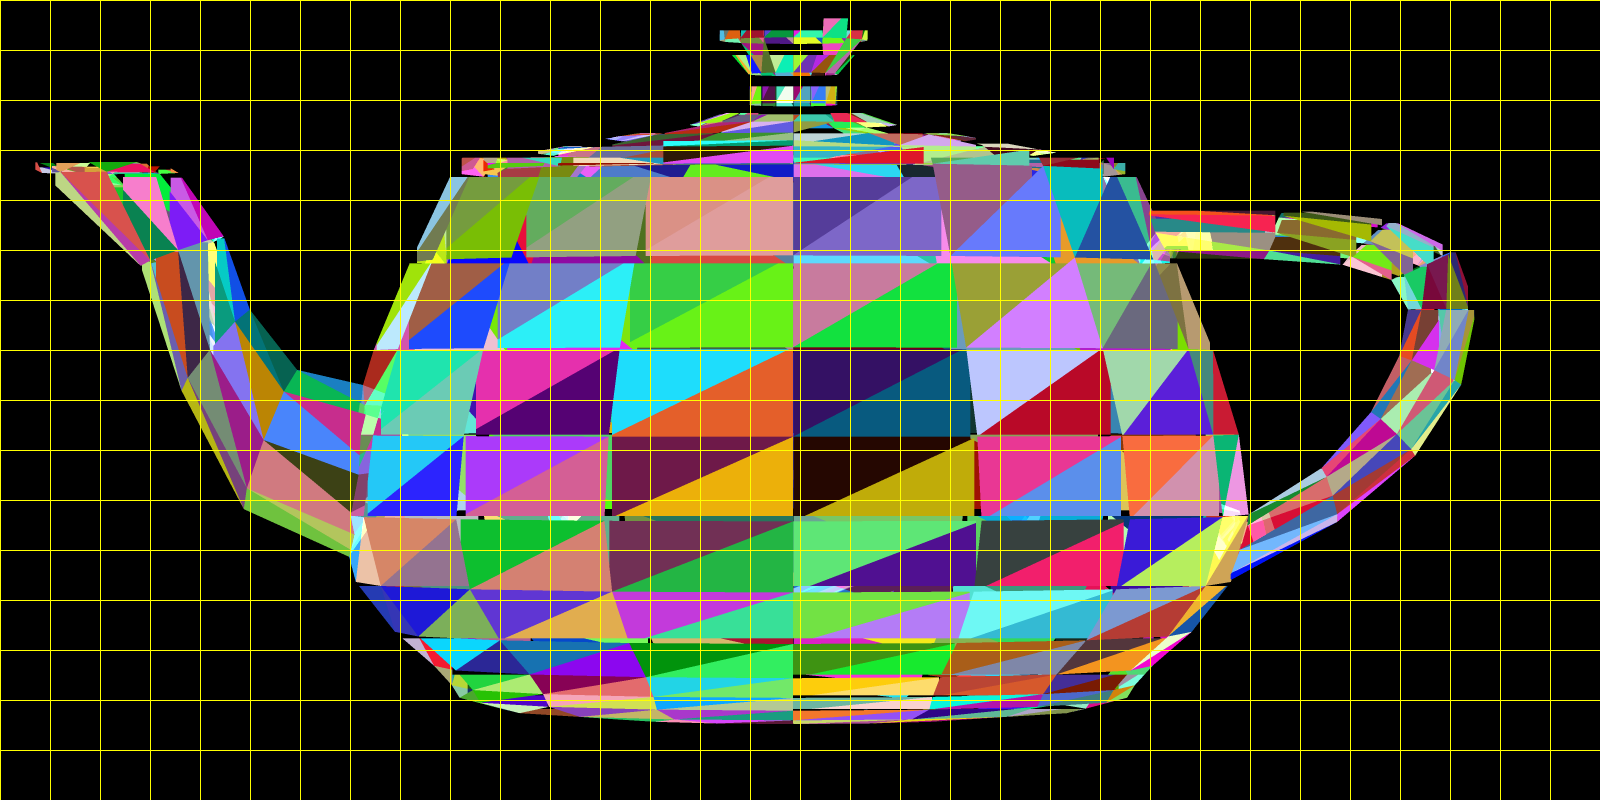
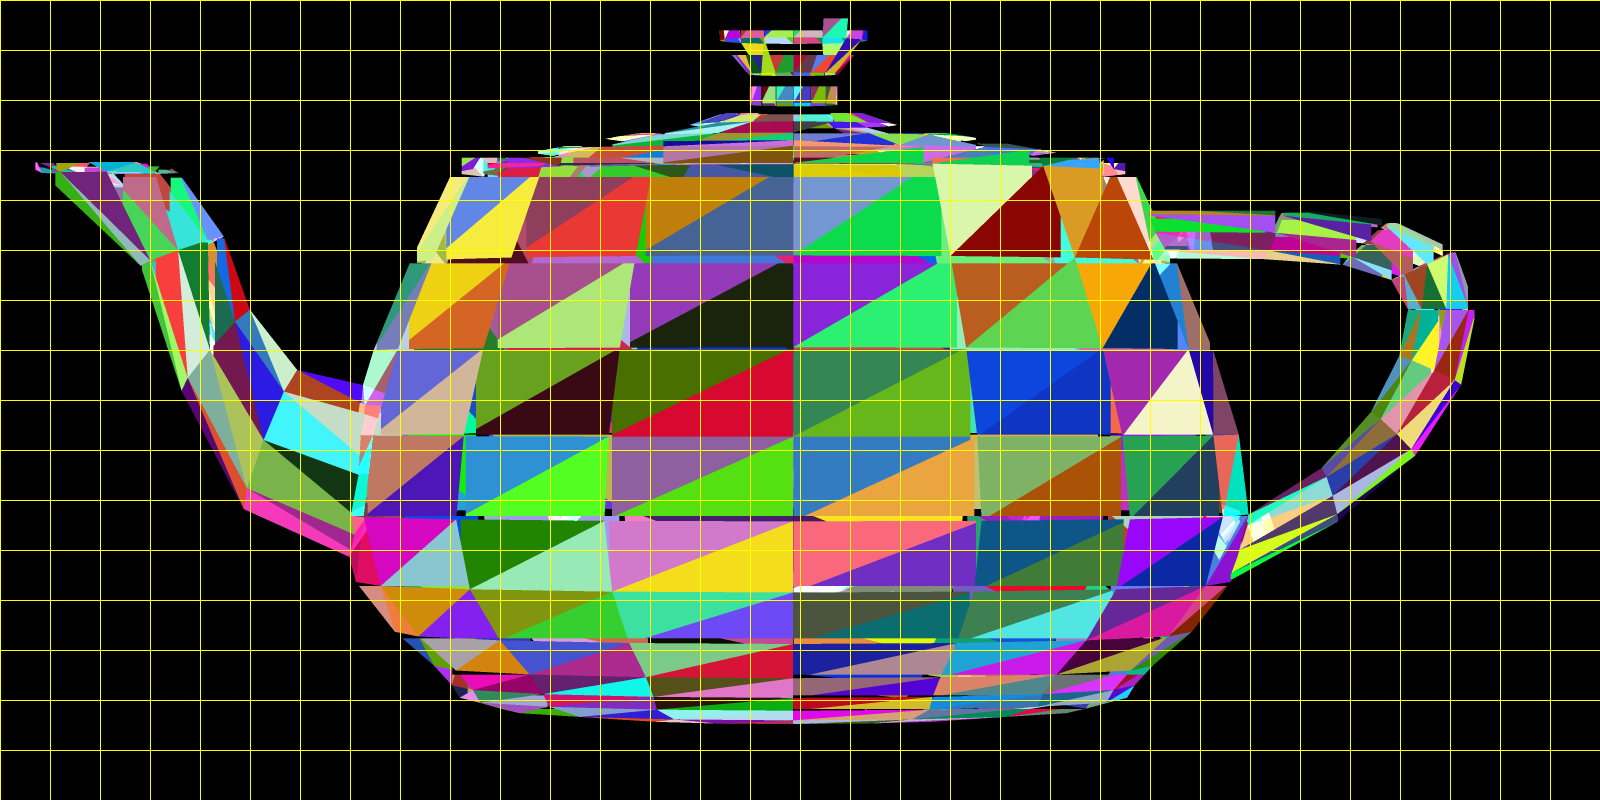
project-thread in process

diff --git a/tests/MiniProject/PingPong.java b/tests/MiniProject/PingPong.java
@@ -3,10 +3,7 @@ package MiniProject;
 import elements.AmbientLight;
 import elements.Camera;
 import elements.SpotLight;
-import geometries.Cylinder;
-import geometries.Polygon;
-import geometries.Sphere;
-import geometries.Triangle;
+import geometries.*;
 import org.junit.jupiter.api.Test;
 import primitives.*;
 import renderer.ImageWriter;
@@ -85,8 +82,10 @@ public class PingPong {
 
     @Test
     public void Testping_pong_background3() {
-        scene.setBackground(new Color(java.awt.Color.WHITE));
+       // scene.setBackground(new Color(java.awt.Color.WHITE));
+
         scene.geometries.add( //
+
                 new Polygon( //the main polygon
                         new Point3D(35, -95, 0),
                         new Point3D(45, -10, 0),
@@ -176,45 +175,59 @@ public class PingPong {
                         new Point3D(41, -43, 1),
                         new Point3D(-9, 48, 1)).setEmission(new Color(java.awt.Color.WHITE))
                         .setMaterial(new Material().setDiffuse(0.5).setDiffuse(0.5).setSpecular(0.5).setShininess(10)),
-//                new Polygon(//רשת שחורה
-//                        new Point3D(40.58158,27.67025,10), new Point3D(26.73963,-50.26631,10),
-//                        new Point3D(26.27, 27.47, 2), new Point3D(12.43, -49.86, 2))
-//                        .setEmission(new Color(java.awt.Color.BLACK))
-//                        .setMaterial(new Material().setDiffuse(0.4).setSpecular(0.3).setShininess(100).setKt(0.3)),
+                new Polygon(//רשת שחורה
+                        new Point3D(40,27,10), new Point3D(26,-50,10),
+                        new Point3D(26, 27, 2), new Point3D(12, -50, 2))
+                        .setEmission(new Color(java.awt.Color.BLACK))
+                        .setMaterial(new Material().setDiffuse(0.4).setSpecular(0.3).setShininess(100).setKt(0.3)),
+                        //.setMaterial(new Material().setDiffuse(0.5).setDiffuse(0.5).setSpecular(0.5).setShininess(10)),
+                        //.setMaterial(new Material().setDiffuse(0.4).setSpecular(0.3).setShininess(100).setKt(0.3)),
 
 
                 //lights
                 new Cylinder(new Ray(new Point3D(100,46,0),new Vector(-14,0,0)),1,45)//עמוד תלייה
-                        .setEmission(new Color(java.awt.Color.BLACK)),
+                        .setEmission(new Color(32,32,32)),
                 new Polygon(new Point3D(60,46,0),new Point3D(40,53,0),new Point3D(40,39,0))
-                .setEmission(new Color(java.awt.Color.BLACK)),
-                new Sphere(5,new Point3D(40,46,-7.5)).setEmission(new Color(java.awt.Color.YELLOW)),
+                .setEmission(new Color(32,32,32)),
+                new Sphere(5,new Point3D(42,46,-7.5)).setEmission(new Color(96,96,96)),
 
                 //second light source
                 new Cylinder(new Ray(new Point3D(100,20,0),new Vector(-25,0,0)),1,35)
-                        .setEmission(new Color(java.awt.Color.BLACK)),
+                        .setEmission(new Color(32,32,32)),
                 new Polygon(new Point3D(70,20,0),new Point3D(50,27,0),new Point3D(50,13,0))
-                        .setEmission(new Color(java.awt.Color.BLACK)),
-                new Sphere(5,new Point3D(50,20,-7.5)).setEmission(new Color(java.awt.Color.YELLOW)),
+                        .setEmission(new Color(32,32,32)),
+                new Sphere(5,new Point3D(52,20,-7.5)).setEmission(new Color(96,96,96))
+                        .setMaterial(new Material().setDiffuse(0.25).setSpecular(0.25).setShininess(20)),
                 //third light
                 new Cylinder(new Ray(new Point3D(100,-3,0),new Vector(-25,0,0)),1,25)
-                        .setEmission(new Color(java.awt.Color.BLACK)),
+                        .setEmission(new Color(32,32,32)),
                 new Polygon(new Point3D(77,-3,0),new Point3D(58,5,0),new Point3D(58,-10,0))
-                        .setEmission(new Color(java.awt.Color.BLACK)),
+                        .setEmission(new Color(32,32,32)),
                 new Sphere(5,new Point3D(60,-3,-7.5)).setEmission(new Color(java.awt.Color.YELLOW))
+                        .setMaterial(new Material().setDiffuse(0.4).setSpecular(0.3).setShininess(100).setKt(0.3))
 
         );
         scene.setAmbientLight(new AmbientLight(new Color(java.awt.Color.BLACK), 0.15));
-        scene.lights.add(new SpotLight(new Color(java.awt.Color.WHITE),new Point3D(60,-3,-7.5),new Vector(-25,0,0))
+
+        scene.lights.add(new SpotLight(new Color(java.awt.Color.YELLOW), new Point3D(10, -10, -130), new Vector(-2, -2, -1))
+                .setKl(0.0001).setKq(0.000005));
+        scene.lights.add( new SpotLight(new Color(java.awt.Color.WHITE),new Point3D(-100, -100, 500),  new Vector(-1, -1, -2))
                 .setKl(0.0004).setKq(0.0000006));
+        scene.lights.add(new SpotLight(new Color(java.awt.Color.YELLOW),new Point3D(40,-3,10),new Vector(-13,2,0))
+               .setKl(0.0004).setKq(0.0000006));
+        scene.lights.add(new SpotLight(new Color(java.awt.Color.YELLOW),new Point3D(30,20,10),new Vector(-13,2,0))
+                .setKl(0.0004).setKq(0.0000006));
+        scene.lights.add(new SpotLight(new Color(java.awt.Color.WHITE),new Point3D(20,46,10),new Vector(-13,2,0))
+                .setKl(0.0004).setKq(0.0000006));
+
 //        scene.lights.add(
 //                new SpotLight(new Color(java.awt.Color.WHITE), new Point3D(10, -10, -130), new Vector(-2, -2, -1))
 //                        .setKl(0.0001).setKq(0.000005));
 //        scene.lights.add(
 //                new SpotLight(new Color(java.awt.Color.WHITE), new Point3D(400, 0, 600), new Vector(1, 1, -5))//
 //                        .setKl(1E-5).setKq(1.5E-7));
-        scene.lights.add( new SpotLight(new Color(java.awt.Color.WHITE),new Point3D(-100, -100, 500),  new Vector(-1, -1, -2))
-                .setKl(0.0004).setKq(0.0000006));
+        //scene.lights.add( new SpotLight(new Color(java.awt.Color.WHITE),new Point3D(-100, -100, 500),  new Vector(-1, -1, -2))
+            //    .setKl(0.00005).setKq(0.00005));
 
         Render render = new Render(). //
                 setImageWriter(new ImageWriter("ping_pong_background3", 400, 400)) //
@@ -234,10 +247,16 @@ public class PingPong {
                         .setMaterial(new Material().setDiffuse(0.5).setSpecular(0.5).setShininess(100)),
                 new Cylinder(new Ray(new Point3D(-4, -5, -1), new Vector(2, -1, 1)), 40, 50)
                         .setEmission(new Color(java.awt.Color.BLUE))
-                        .setMaterial(new Material().setShininess(100).setSpecular(0.5).setDiffuse(0.5))
+                        .setMaterial(new Material().setShininess(100).setSpecular(0.5).setDiffuse(0.5)),
                 //new Sphere(40,new Point3D(-30,30,30))
+                new Polygon(new Point3D(29, 58, 1.1),
+                        new Point3D(28, -58, 1.1),
+                        new Point3D(43, -53, 1.1),
+                        new Point3D(47, 53, 1.1))
+                        .setEmission(new Color(java.awt.Color.BLACK))
+                        .setMaterial(new Material().setDiffuse(0.4).setSpecular(0.3).setShininess(100).setKt(0.3))
 
-        );
+                );
         scene.lights.add(
                 //new DirectionalLight(new Color())//
                 new SpotLight(new Color(300, 255, 255), new Point3D(400, 0, 600), new Vector(1, 1, -5))//
@@ -416,7 +435,11 @@ public class PingPong {
                         .setEmission(new Color(java.awt.Color.BLUE))
                         .setMaterial(new Material().setShininess(100).setSpecular(0.5).setDiffuse(0.5))//
 
-
+//                new Polygon(//רשת שחורה
+//                        new Point3D(0, -50, 2), new Point3D(12, -50, 2)
+//                        ,new Point3D(0,-50,10), new Point3D(26,-50,10))
+//                        .setEmission(new Color(java.awt.Color.BLACK))
+//                        .setMaterial(new Material().setDiffuse(0.4).setSpecular(0.3).setShininess(100).setKt(0.3))
 //
 //                new Triangle(new Point3D(-10,-23,3),new Point3D(-10,-30,4),new Point3D(-15,-23,3))
 //                        .setEmission(new Color(java.awt.Color.BLUE))
